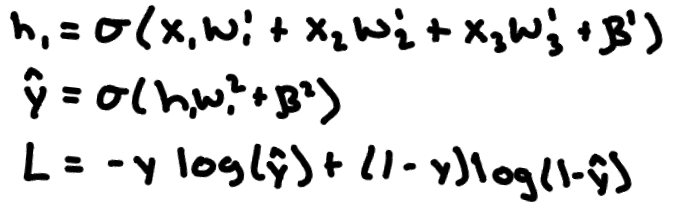
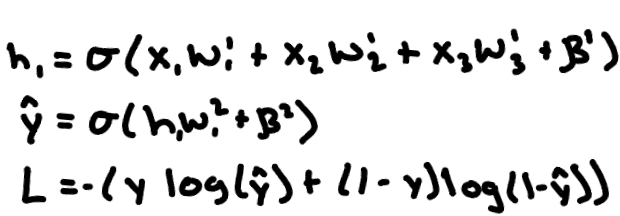
ch0/week1 done

Changed region(s): [[0.0, 0.029, 1.0, 1.0]]

diff --git a/src/styles/global.css b/src/styles/global.css
@@ -80,6 +80,7 @@ code { font-family: var(--font-mono); font-size: 0.88em; background: var(--soft)
 pre { background: var(--soft); padding: 0.9rem; overflow-x: auto; border-radius: 6px; border: 1px solid var(--line); }
 pre code { background: none; padding: 0; }
 img { max-width: 100%; height: auto; }
+article img { display: block; margin: 1.5rem auto; }
 .katex-display { overflow-x: auto; overflow-y: hidden; }
 
 /* Chapter accent. Set by a .ch-* class; everything else reads --ch. */

diff --git a/src/content/weeks/week-1.md b/src/content/weeks/week-1.md
@@ -1,31 +1,142 @@
 ---
 order: 1
 label: "Week 1"
-title: "ARENA Chapter 0 (Fundamentals) Sprint"
+title: "ARENA Chapter 0 (Fundamentals)"
 start: 2026-09-27
 end: 2026-10-03
 arena:
   section: "Chapter 0"
   url: https://learn.arena.education/chapter0_fundamentals/
-ready: false
+ready: true
 ---
 
-A fast pass through ARENA Chapter 0: PyTorch basics, `einops` and `einsum`, tensor operations, and the core ideas of deep learning (networks, optimization, backpropagation). This week gives everyone the same base for the rest of the course.
+## Tensors, Einops, and Einsum
+This section is going to be super brief, and I’m not really going to explicitly walk through any of this. Instead, as is kind of the theme of this entire program, I think it’s best to just learn by doing.
 
-<!--
-Write this week's material below. Remove this comment when done, and set `ready: true` above.
+[What’s a Tensor?](https://youtu.be/f5liqUk0ZTw?si=-O-IfwKzWuSGwbt5) is an OG video from physicist/professor Dan Fleisch and can help you build some stronger intuitions around what they are and how they work. Tensors are the fundamental building block of all neural networks, so it’s important that we get comfortable with them. One caveat: the video explains tensors as physicists use them, defined by how they change between coordinate systems. In ML, the word is looser. I’m no mathematician, but I basically just think of tensors as higher-dimensional matrices (n-dimensional arrays of numbers). Basically, they’re just these arrangements of numbers that either represent information itself or how to manipulate information that’s passing through the network. 
 
-Suggested sections:
-## Before you start      (what to read or watch first)
-## Key ideas             (the concept review)
+[Einops](https://einops.rocks/) and [einsum](https://einops.rocks/api/einsum/) are these awesome notations for writing tensor operations (reshaping, reducing, multiplying) by naming each axis. It can be kind of counterintuitive at first, but then, after repeated work with them, they can become really intuitive. With good naming practices, it can make it both way faster/easier to write the code out and for someone else to read and understand it. 
 
-Math: inline $x^2$. For display math, put $$ on its own line above and below:
+I’d highly recommend really sitting with [all](https://einops.rocks/1-einops-basics/) [of](https://medium.com/@hunter-j-phillips/a-simple-introduction-to-broadcasting-db8e581368b3) [these](https://www.youtube.com/watch?v=pkVwUVEHmfI) [materials](https://rockt.ai/2018/04/30/einsum) and putting effort into the explicit einops practice problems. The intuitions with it will then really solidify through section 1.1 when we actually build transformers.
+
+## Backpropagation
+I’m assuming a basic level of background knowledge, but here’s a toy refresher on backprop. 
+
+Backprop is the process by which the network actually comes to do anything useful. It’s the information on which the optimizer then decides how to actually update the parameters. On a super high level, we’re calculating how bad the model’s prediction was for a task and how we should tweak each of the parameters so that its prediction is a little bit better next time. 
+
+So what is backpropagation, really? Fundamentally, it’s taking the partial derivative of the loss function with respect to every single weight and bias in the network, i.e. figuring out how much tweaking a given parameter contributes to how bad our prediction was. You can imagine how many calculations this consists of in a modern-day LLM…
+
+But, as we know from multivariable calculus, we can take advantage of the [chain rule](https://en.wikipedia.org/wiki/Chain_rule) and re-use many of the common upstream partial derivatives. For instance, say we have a simple multi-layer perceptron (MLP):
+
+<img src="/images/ch0_mlp.png" alt="A small MLP: three inputs x1, x2, x3 feed one hidden unit h1, which feeds the output ŷ" style="width: 20rem">
+
+Where
+
+<img src="/images/ch0_back_eq.png" alt="Equations for the hidden unit, the output, and the binary cross-entropy loss" style="width: 24rem">
+
+In this network, we need to find the partial derivative with respect to each of the four weights and two biases. PyTorch does this by building a computational graph to keep track of all of the network's trainable parameters and the route by which we get from them to the loss function:
+
+<img src="/images/ch0_comp_graph.png" alt="Computational graph from the loss back to each weight and bias, with local partial derivatives on each edge" style="width: 46rem">
+
+Here, we can observe that many edges are used for multiple paths from the loss function to a given parameter. Instead of recalculating each time we traverse the graph, we store these local partial derivatives for reuse. With the chain rule, the partials with respect to each of the first layer’s weights depend on the partial with respect to the node in the hidden layer. 
+
+<img src="/images/ch0_partials.png" alt="Chain-rule expressions for each partial derivative, with the shared upstream terms highlighted in blue" style="width: 30rem">
+
+This is somewhat trivial in this example, but you can imagine how in a deep neural network, this can massively reduce the number of calculations, so long as we are careful and smart about tracking everything. One note: I’m ignoring some of the nuances that come with the shape of the tensors/matrices in each layer, but that’s somewhat beside the point. 
+
+Luckily, some great engineers have basically automated this entire process for us, and we’ll basically never have to worry about this in practice. It is, however, important to make sure we still understand the underlying mechanism. 
+
+The few 0.4 exercises for this week are just building out some of the backpropagation infrastructure/algorithms by hand. If you’ve built something like [micrograd](https://github.com/karpathy/micrograd) or are generally comfortable with backpropagation, feel free to skip these exercises. I will say, though, that while my above example might make backprop seem pretty simple, it can get messy sometimes with these multi-dimensional tensors, broadcasting, and topological nuances. Again, it’s not something we’ll have to be all too conscious of day-to-day, but I think these can still be a good exercise for anyone to just keep building your conceptual and abstract reasoning abilities and general comfort with everything.
+
+
+## Optimization
+Optimizers then tell us how we actually want to update the weights based on the information gathered from the backpropagation process. All of a model’s behavior is learned through this optimization process, so understanding the dynamics of this process is critical for safety. Optimizing an imperfect objective, and the particular solution the optimizer lands on, are behind phenomena like [specification gaming](https://vkrakovna.wordpress.com/2018/04/02/specification-gaming-examples-in-ai/), [goal misgeneralization](https://arxiv.org/pdf/2105.14111), [sycophancy](https://arxiv.org/pdf/2310.13548), and even things like [emergent misalignment](https://arxiv.org/pdf/2502.17424).
+
+Basically every optimizer and every part of training is using some form of gradient descent:
+
 $$
-\sum_i x_i
+\theta_{t+1} = \theta_t - \eta \, \nabla_\theta L(\theta_t)
 $$
-## Exercises             (which ARENA parts to do, and which to skip)
-## Discussion questions
-## Further reading
 
-Slides: put the file in public/slides/ and set `slides: /slides/<file>.pdf` above.
--->
+Plain gradient descent has some issues, though, such as:
+- It can be prohibitively expensive (a full forward and backward pass over the entire training set for every single step)
+- It can get stuck in non-optimal local minima, saddle points, or plateaus 
+    - Alternatively, it can perpetually bounce around one of these and never settle
+- It can be unstable: a step that is too large can make the loss blow up instead of going down
+- Its update steps can be too large or too small depending on where in training it is and what parameters it's updating
+- Nothing in it prefers solutions that generalize, so it can overfit to the training data
+
+Below, we'll walk through some common alternative optimization algorithms that sought to address these issues.
+
+**Mini-batch stochastic gradient descent** estimates the gradient on a random batch of examples, making each update step much cheaper and faster. This process brings in noise, but this noise is actually useful because it can help the optimizer escape local minima, saddle points, and plateaus.
+
+**Momentum** then kind of brings this to the next level. The idea here is to keep a running velocity of the past gradients and integrate this into the update calculation. It's almost literally like momentum in physics. It keeps it going in the direction it was already going. It carries the optimizer across small bumps or flat regions of the loss landscape, prevents it from getting too sidetracked by really steep gradients that are off-course, and takes it down a smoother, typically faster path towards the minima.
+
+$$
+b_t = \mu b_{t-1} + g_t, \qquad \theta_t = \theta_{t-1} - \eta \, b_t
+$$
+
+**Adaptive step sizes (AdaGrad, RMSprop)** divide each parameter's step by the size of its recent gradients, that way ones with large or noisy gradients take smaller steps and those with small gradients take larger ones. The equation below is RMSprop; AdaGrad sums all past squared gradients instead of keeping a moving average, so its steps keep shrinking over time.
+
+$$
+v_t = \alpha v_{t-1} + (1-\alpha) g_t^2, \qquad \theta_t = \theta_{t-1} - \eta \, \frac{g_t}{\sqrt{v_t} + \epsilon}
+$$
+
+**Adam** combines the idea of momentum and adaptive step sizes into a single optimization algorithm. 
+
+$$
+\begin{aligned}
+m_t &= \beta_1 m_{t-1} + (1-\beta_1)\, g_t \\
+v_t &= \beta_2 v_{t-1} + (1-\beta_2)\, g_t^2 \\
+\theta_t &= \theta_{t-1} - \eta \, \frac{m_t / (1-\beta_1^t)}{\sqrt{v_t / (1-\beta_2^t)} + \epsilon}
+\end{aligned}
+$$
+
+(The math here isn't super important, just focus on the concepts)
+
+Adam can already use *weight decay*, but it adds the decay to the gradient, where the adaptive scaling weakens it for parameters with large gradients. **AdamW** instead seeks to learn more generalizable weights by applying weight decay directly to the weights, shrinking them towards zero to prevent overfitting and prefer simpler solutions where possible. AdamW is the default optimizer used with most transformer architectures.
+
+We might also choose to "clip" gradients above a predetermined limit (usually by scaling the whole gradient down when its norm is too large) to stop a single bad or non-representative batch from influencing too much. We'll also use normalization techniques like BatchNorm or LayerNorm, but we'll get into BatchNorm in the ResNet section below. 
+
+There are also a number of hyperparameters we'll need to "tune," each of which can have massive effects on our training. The **learning rate** is a particularly important one. Too high a learning rate and our loss will never converge, too low and learning can stall (or just take a long ass time). We'll often first **warmup** our learning rate by starting it near 0 and raising it linearly over the first steps of training (often the first 1–5%). We do this because our weights are initialized randomly and full-sized steps can be destabilizing. We'll also often use a **learning rate scheduler** to dynamically change the learning rate over the course of training to take large steps early on during training to make fast progress and incrementally smaller steps over time to help the optimizer settle into a nice minimum. 
+
+## Convolutional Neural Networks
+It's often easiest to start with CNNs for image recognition, and here, we'll start with a small black and white 9x9 pixel image.
+
+<img src="/images/ch0_smiley.png" alt="A 9x9 pixel smiley face in white, gray and black" style="width: 16rem">
+
+Computationally, we know each pixel of the image is represented by a number representing the intensity of the pixel along the black-white gradient (here 0 = white, 1 = gray, 3 = black). So, to the computer, it looks something more like:
+
+<img src="/images/ch0_comp_smiley.png" alt="The same smiley as a 9x9 grid of numbers: 0 for white, 1 for gray, 3 for black" style="width: 18rem">
+
+We're assuming here, as in the picture, that there are only 3 different levels of color intensity. We then have something called a **filter** (also known as a **kernel**) which is a small grid of weights (parameters). Let's say here that our filter is 3x3 and it is initialized randomly, like any other weights in a neural network. (Real filter weights are small numbers, both positive and negative; we use whole numbers here to keep the arithmetic easy.)
+
+<img src="/images/ch0_filter.png" alt="A 3x3 filter with weights 1, 3, 4 / 9, 7, 5 / 6, 9, 2" style="width: 11rem">
+
+A **convolution** then is this mathematical process in which we slide our filter over "patches" of our original image, in this case 3x3 pixels at a time. The output is the sum-product of the filter weights and the patch values.
+
+<img src="/images/ch0_convolution.png" alt="The filter applied to the top-left 3x3 patch: the sum-product is 14, the first entry of the 7x7 output array" style="width: 46rem">
+
+We'll then do this for each patch of our input image, resulting in a 7x7 output array for this convolutional layer (with a stride of 1 and no padding). Notice here that the output layer is of a lower dimensionality than the input layer (just 49 numbers versus the original 81).
+
+Two ideas make this work. **Locality:** each output looks only at a small patch of nearby pixels, which builds in the assumption that nearby pixels belong together. **Weight sharing:** the same filter slides over every position, so a filter that learns to detect, say, an edge can find it anywhere in the image, with far fewer weights than a fully connected layer.
+
+It can get a bit more complex with more input channels (like with color images in RGB) and more convolutional layers, but we'll skip that for this. The important point to take away from CNNs is that it is a way that a neural network is able to process a given piece of information along with its surrounding *context*. CNNs are included here for two reasons. First, ResNets (below) are CNNs, and they introduced the residual connections that become the transformer's residual stream. Second, much of mech interp's vocabulary (features, circuits) comes from early work interpreting vision CNNs ([Zoom In](https://distill.pub/2020/circuits/zoom-in/)). One contrast to keep in mind for next week: a convolution mixes a fixed local window with the same weights everywhere, while attention mixes all positions with weights that depend on the input.
+
+Some quick definitions of CNN concepts:
+- **Kernel size:** refers to both the size of the filter/kernel and the size of a patch
+- **Stride:** how far the kernel moves each step. Sometimes, we'll want to slide more than just 1 pixel over.
+- **Padding:** adding zeros around the edges of the input. This is mostly used to control the output size (for example, keep it the same as the input), and it also lets edge pixels be covered as often as center ones.
+- **Channels:** the number of values per pixel. Our black-and-white image has 1 input channel. An RGB image has 3: each pixel has 3 separate numbers (e.g. 224, 196, 181) for its intensity along the red, green, and blue spectrums, and each of these sits on its own 9x9 array. A filter always covers every input channel at once: for RGB, a 3x3 filter is really 3x3x3, and it adds everything up into one output number. Using several filters gives several **output channels**, one per filter, each detecting a different pattern.
+- **Pooling:** a common downsampling technique in CNNs used to reduce the spatial size (height and width) while keeping the most relevant information (max pooling, average pooling, global average pooling). Pooling has no weights, and it also makes the model a bit less sensitive to small shifts in the image, which helps it generalize.
+
+## Residual Networks
+In theory, a deeper network just simply has far more representational power than a shallow network. But deep networks used to be super susceptible to exploding and vanishing gradients. Better initialization and normalization (see BatchNorm below) mostly fixed that, but the ResNet authors found a second problem, the **degradation problem**: past a certain depth, adding layers made even the *training* error worse. Deep plain networks were just hard to optimize, partly because they put the input data through so many transformations that information can easily get lost or become unrecognizable along the way.
+
+The fix to this was to add **residual (or skip) connections**. In a simple feed-forward network, a given layer operates only on the outputs of the previous layer. Skip connections instead add back in information from an earlier position into the input fed to our layer.
+
+<img src="/images/ch0_skip.png" alt="A skip connection: the input x goes through layer 1 and is also added to layer 1's output before layer 2" style="width: 14rem">
+
+If a layer isn't useful, it can learn to output roughly zero and just pass its input through. This has the effect of making training much more stable, preventing vanishing/exploding gradients, and making deep networks real good. Skip connections are the direct ancestor of the ***residual stream***, one of the most important aspects of the transformer architecture and our main object of study in much of Chapter 1 (and mechinterp in general).
+
+**BatchNorm.** ResNets also put a batch normalization layer after each convolution. For each channel, it normalizes the activations to mean 0 and variance 1 across the batch (and across height and width), then applies a learned scale and shift. In training mode, it uses the current batch's statistics and updates a running average of them. In eval mode, it uses the running average instead. So always call `model.eval()` before using a trained model, or its outputs will depend on whatever else is in the batch.
